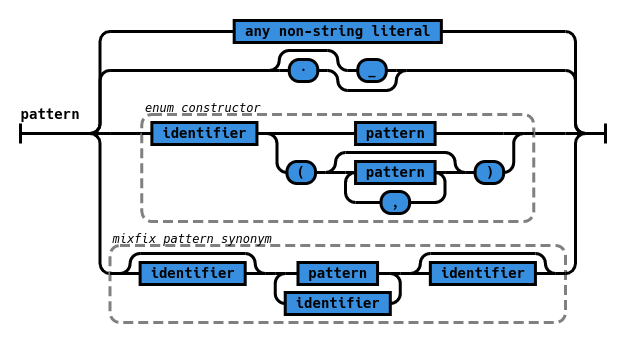
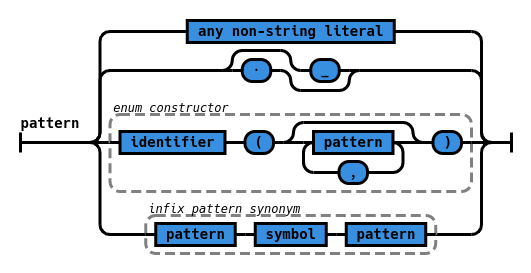
remove mixfix pattern synonyms

diff --git a/railroad-diagrams.py b/railroad-diagrams.py
@@ -1023,35 +1023,24 @@ def zilch_pattern():
 		Group(
 			Sequence(
 				NonTerminal('identifier'),
-				Choice(
-					0,
-					NonTerminal('pattern'),
-					Sequence(
-						Terminal('('),
-						ZeroOrMore(
-							NonTerminal('pattern'),
-							Terminal(',')
-						),
-						Terminal(')')
-					)
+				Sequence(
+					Terminal('('),
+					ZeroOrMore(
+						NonTerminal('pattern'),
+						Terminal(',')
+					),
+					Terminal(')')
 				)
 			),
 			'enum constructor'
 		),
 		Group(
 			Sequence(
-				Optional(
-					NonTerminal('identifier'),
-				),
-				OneOrMore(
-					NonTerminal('pattern'),
-					NonTerminal('identifier')
-				),
-				Optional(
-					NonTerminal('identifier')
-				)
+				NonTerminal('pattern'),
+				NonTerminal('symbol'),
+				NonTerminal('pattern')
 			),
-			'mixfix pattern synonym'
+			'infix pattern synonym'
 		)
 	)
 
@@ -1700,4 +1689,4 @@ def zilch_letin():
 
 	return mk_diagram2('let-in', inner)
 
-zilch_keywords().writeSvg(sys.stdout.write)
+zilch_pattern().writeSvg(sys.stdout.write)
